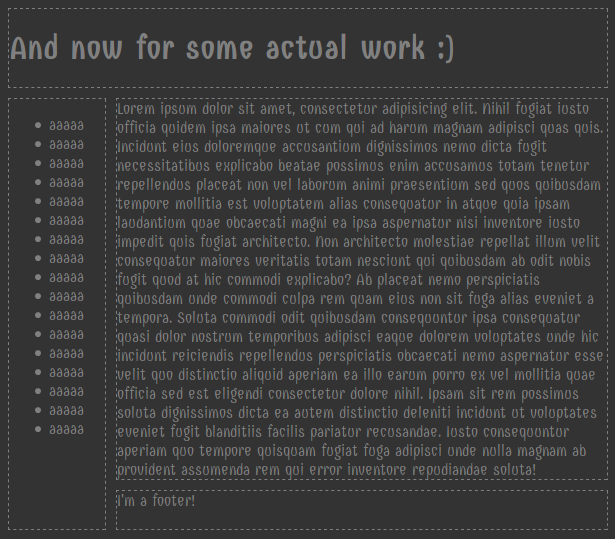
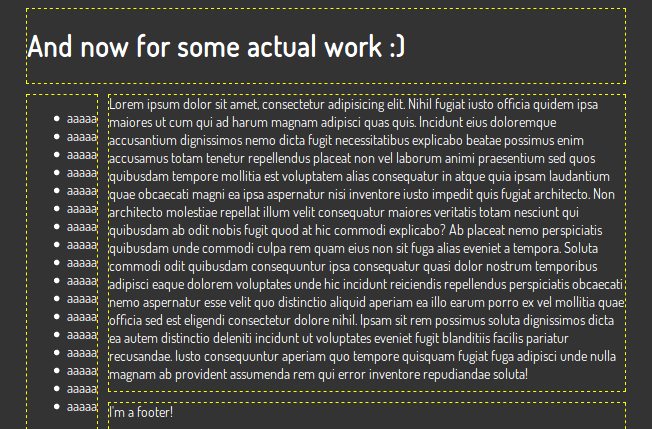
todo images

diff --git a/z/z.css b/z/z.css
@@ -1,12 +1,15 @@
 @import url('https://fonts.googleapis.com/css?family=Dosis');
 
 * { box-sizing: border-box; }
+
 html,
 body {
-    min-height: 100%;
+    height: 100%;
 }
 
 body {
+  margin: 0;
+  padding-top: 10px;
   background-color: #333;
   background-position: top center;
   background-repeat: no-repeat;
@@ -16,11 +19,15 @@ body {
 }
 a {
   color: #fff;
+  text-decoration-color: #777;
+ 
+  
 }
 
 nav.menu {
   list-style-type: none;
   margin: 30px;
+  font-size: 16px;
 }
 nav.menu li {
   padding: 7px;
@@ -42,11 +49,14 @@ nav.menu .chapter {
   text-align: center;
   vertical-align: middle;
   line-height: 30px;
+  transition: transform 1s ease-in;
 }
 #tip:hover {
-  background: red;
+  transform: scale(10,10);
 }
-
+body.tipped * {
+  opacity: 0.5;
+}
 #ignore-this {
   text-align: center;
   width: 390px;
@@ -57,7 +67,7 @@ nav.menu .chapter {
   grid-auto-rows: 90px;
 }
 
-#ignore-this>* {
+#ignore-this * {
   border: 1px solid #888;
   margin: 0;
   display: flex;

diff --git a/10/index.html b/10/index.html
@@ -4,13 +4,13 @@
 <head>
     <title>CSS exercise</title>
     <meta charset="utf8" />
-    <link href='http://fonts.googleapis.com/css?family=Combo&subset=latin,latin-ext' rel='stylesheet' type='text/css'>
     <link rel="stylesheet" href="style.css" />
+    <link rel="stylesheet" href="../z/z.css" /><script src="../z/z.js"></script>
 </head>
 
 <body>
     <div class="mygrid">
-    You have to write the HTML too in this one...
+      
     </div>
 
 <a id="tip">?</a>

diff --git a/z/z.js b/z/z.js
@@ -2,8 +2,10 @@ document.addEventListener('DOMContentLoaded', () => {
   const tip = document.querySelector('#tip')
   tip.addEventListener('mouseenter', () => {
     document.body.style.backgroundImage = 'url(./todo.png)'
+    document.body.classList.add('tipped')
   })
   tip.addEventListener('mouseleave', () => {
     document.body.style.backgroundImage = 'none'
+    document.body.classList.remove('tipped')
   })
 })

diff --git a/09/style.css b/09/style.css
@@ -4,10 +4,6 @@
     grid-gap: 10px;
 }
 
-.mygrid:hover {
-    opacity: 0.2;
-}
-
 .mygrid>* {
     border: 1px dashed yellow;
 }

diff --git a/10/style.css b/10/style.css
@@ -3,10 +3,6 @@
     display: grid;
 }
 
-.mygrid:hover {
-    opacity: 0.2;
-}
-
 .mygrid>* {
     border: 1px dashed yellow;
 }
